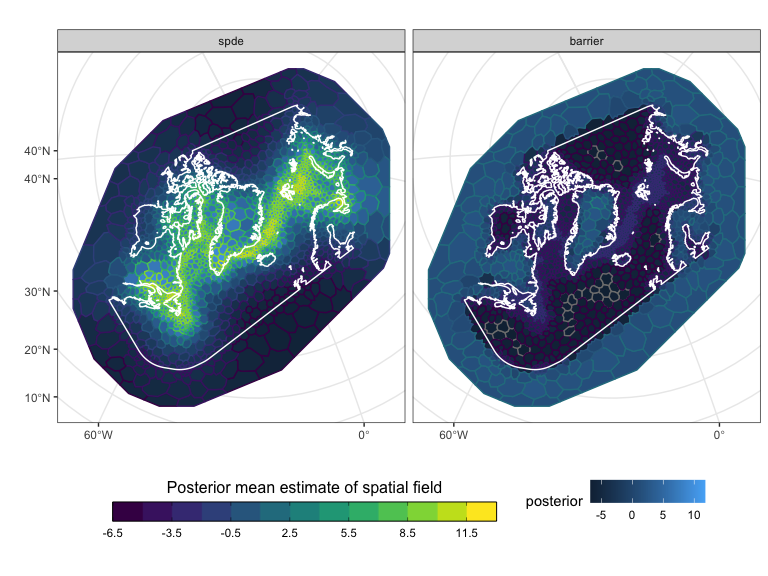
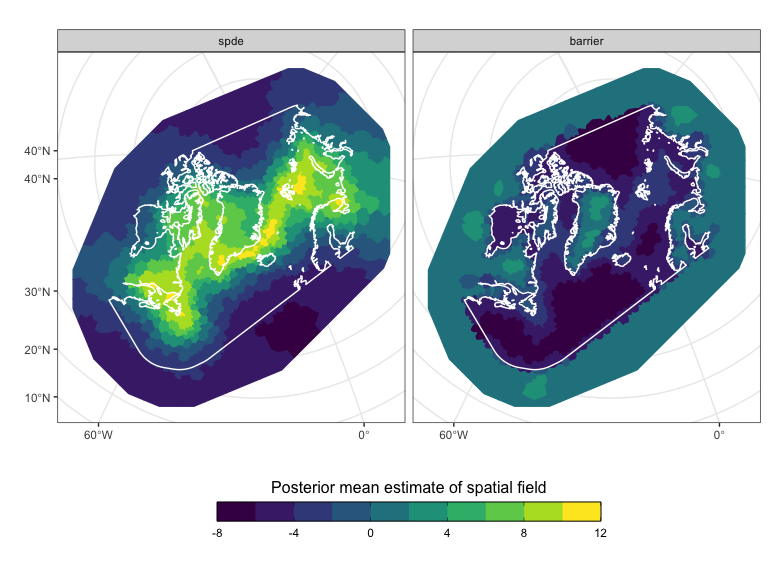
Ammend colour palette

Changed region(s): [[0.0938, 0.0938, 0.5312, 0.7188], [0.5312, 0.125, 0.9688, 0.7188], [0.125, 0.8125, 0.9375, 0.9375]]

diff --git a/README.md b/README.md
@@ -204,13 +204,29 @@ preds$model <- relevel(preds$model, ref = "spde")
 p <- ggplot() +
   theme_bw() +
   ylab("") + xlab("") +
-  geom_sf(aes(colour = posterior,
-              fill = posterior), data = preds) +
+  geom_sf(aes(fill = posterior,
+              colour = posterior), data = preds) +
+  scale_fill_discrete_gradient("Posterior mean estimate of spatial field",
+                                 colours = viridis::viridis(10),
+                                 bins = 10,
+                                 limits = c(-8, 12),
+                                 breaks = seq(-8, 12, 4),
+                                 guide = guide_colourbar(nbin = 500,
+                                                         raster = T,
+                                                         frame.colour = "black",
+                                                         ticks.colour = "black",
+                                                         frame.linewidth = 1,
+                                                         barwidth = 20,
+                                                         barheight = 1,
+                                                         direction = "horizontal",
+                                                         title.position = "top",
+                                                         title.theme = element_text(angle = 0,
+                                                                                    hjust = 0.5))) +
   scale_colour_discrete_gradient("Posterior mean estimate of spatial field",
-                                 colours = viridis::viridis(13),
-                                 bins = 13,
-                                 limits = c(-6.5, 13.0),
-                                 breaks = seq(-6.5, 13.0, 3),
+                                 colours = viridis::viridis(10),
+                                 bins = 10,
+                                 limits = c(-8, 12),
+                                 breaks = seq(-8, 12, 4),
                                  guide = guide_colourbar(nbin = 500,
                                                          raster = T,
                                                          frame.colour = "black",
@@ -303,8 +319,24 @@ preds$model <- factor(preds$model)
 p <- ggplot() +
   theme_bw() +
   ylab("") + xlab("") +
-  geom_sf(aes(colour = posterior,
-              fill = posterior), data = preds) +
+  geom_sf(aes(fill = posterior,
+              colour = posterior), data = preds) +
+  scale_fill_discrete_gradient("Posterior mean estimate of spatial field",
+                                 colours = viridis::viridis(15),
+                                 bins = 15,
+                                 limits = c(-4, 11),
+                                 breaks = seq(-4, 10.0, 2),
+                                 guide = guide_colourbar(nbin = 500,
+                                                         raster = T,
+                                                         frame.colour = "black",
+                                                         ticks.colour = "black",
+                                                         frame.linewidth = 1,
+                                                         barwidth = 20,
+                                                         barheight = 1,
+                                                         direction = "horizontal",
+                                                         title.position = "top",
+                                                         title.theme = element_text(angle = 0,
+                                                                                    hjust = 0.5))) +
   scale_colour_discrete_gradient("Posterior mean estimate of spatial field",
                                  colours = viridis::viridis(15),
                                  bins = 15,
